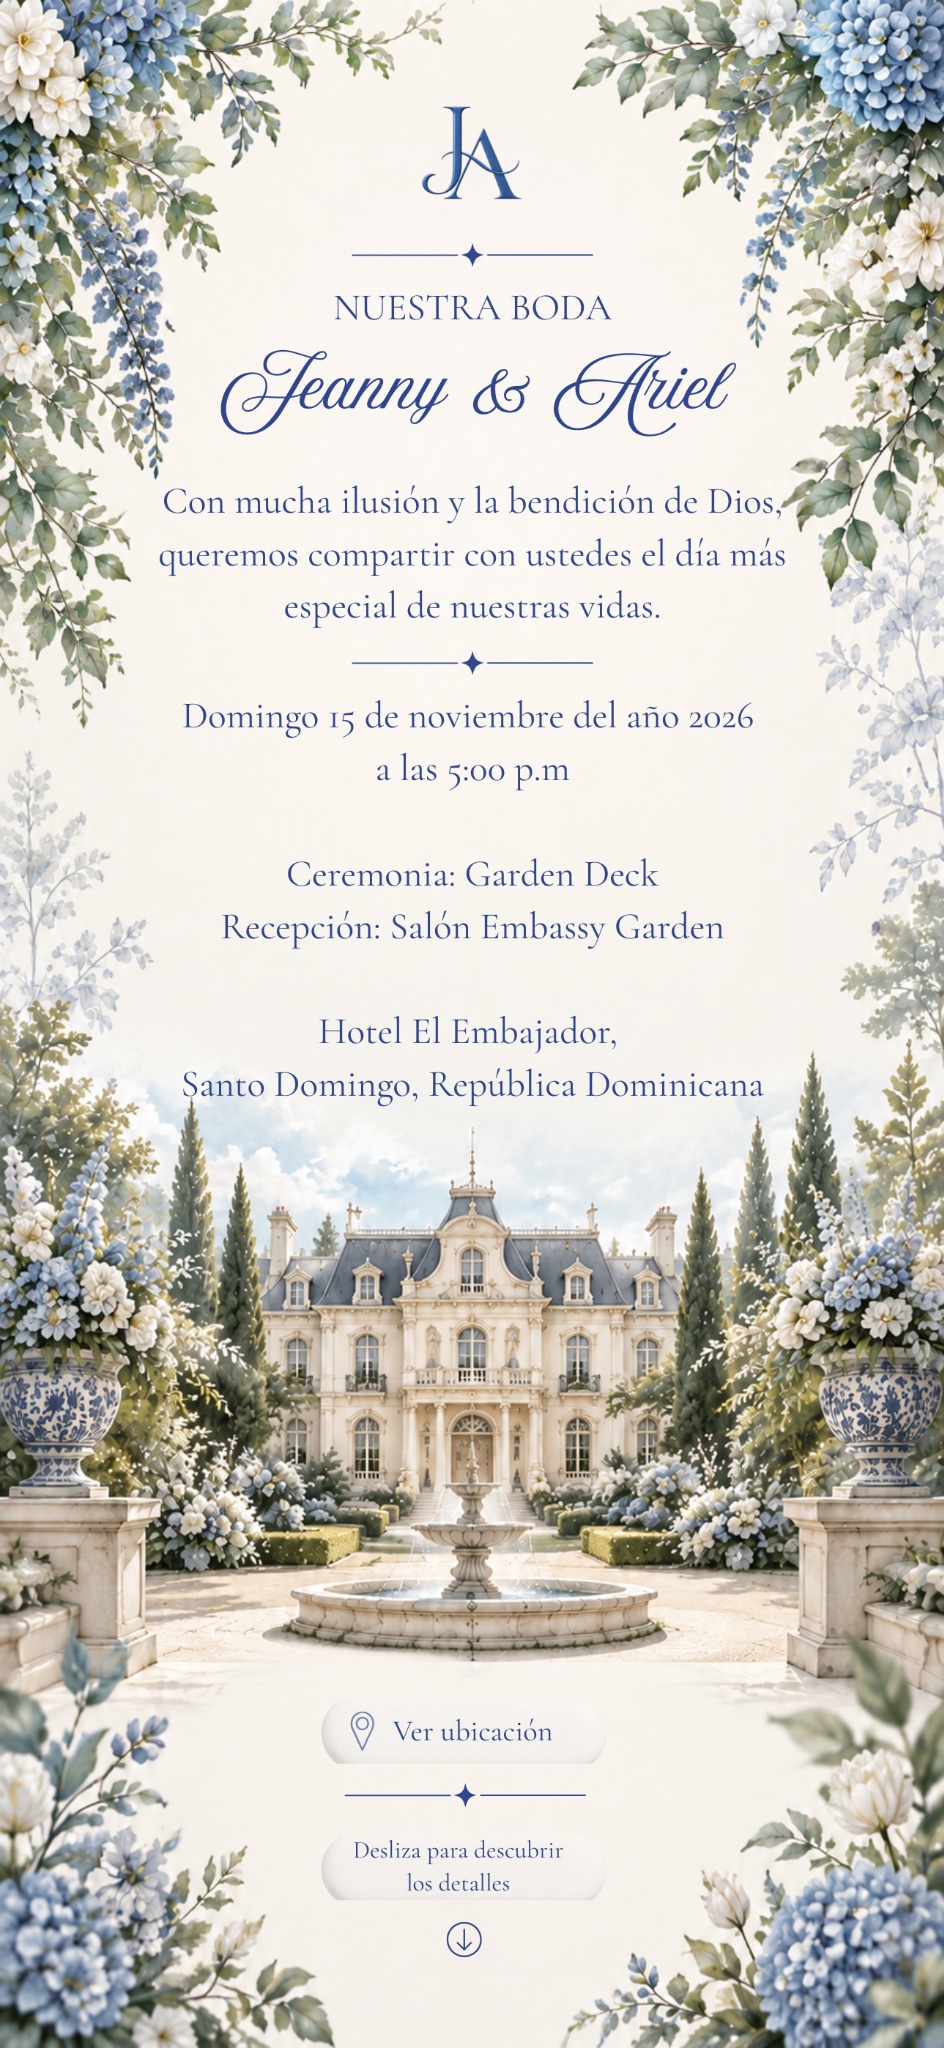
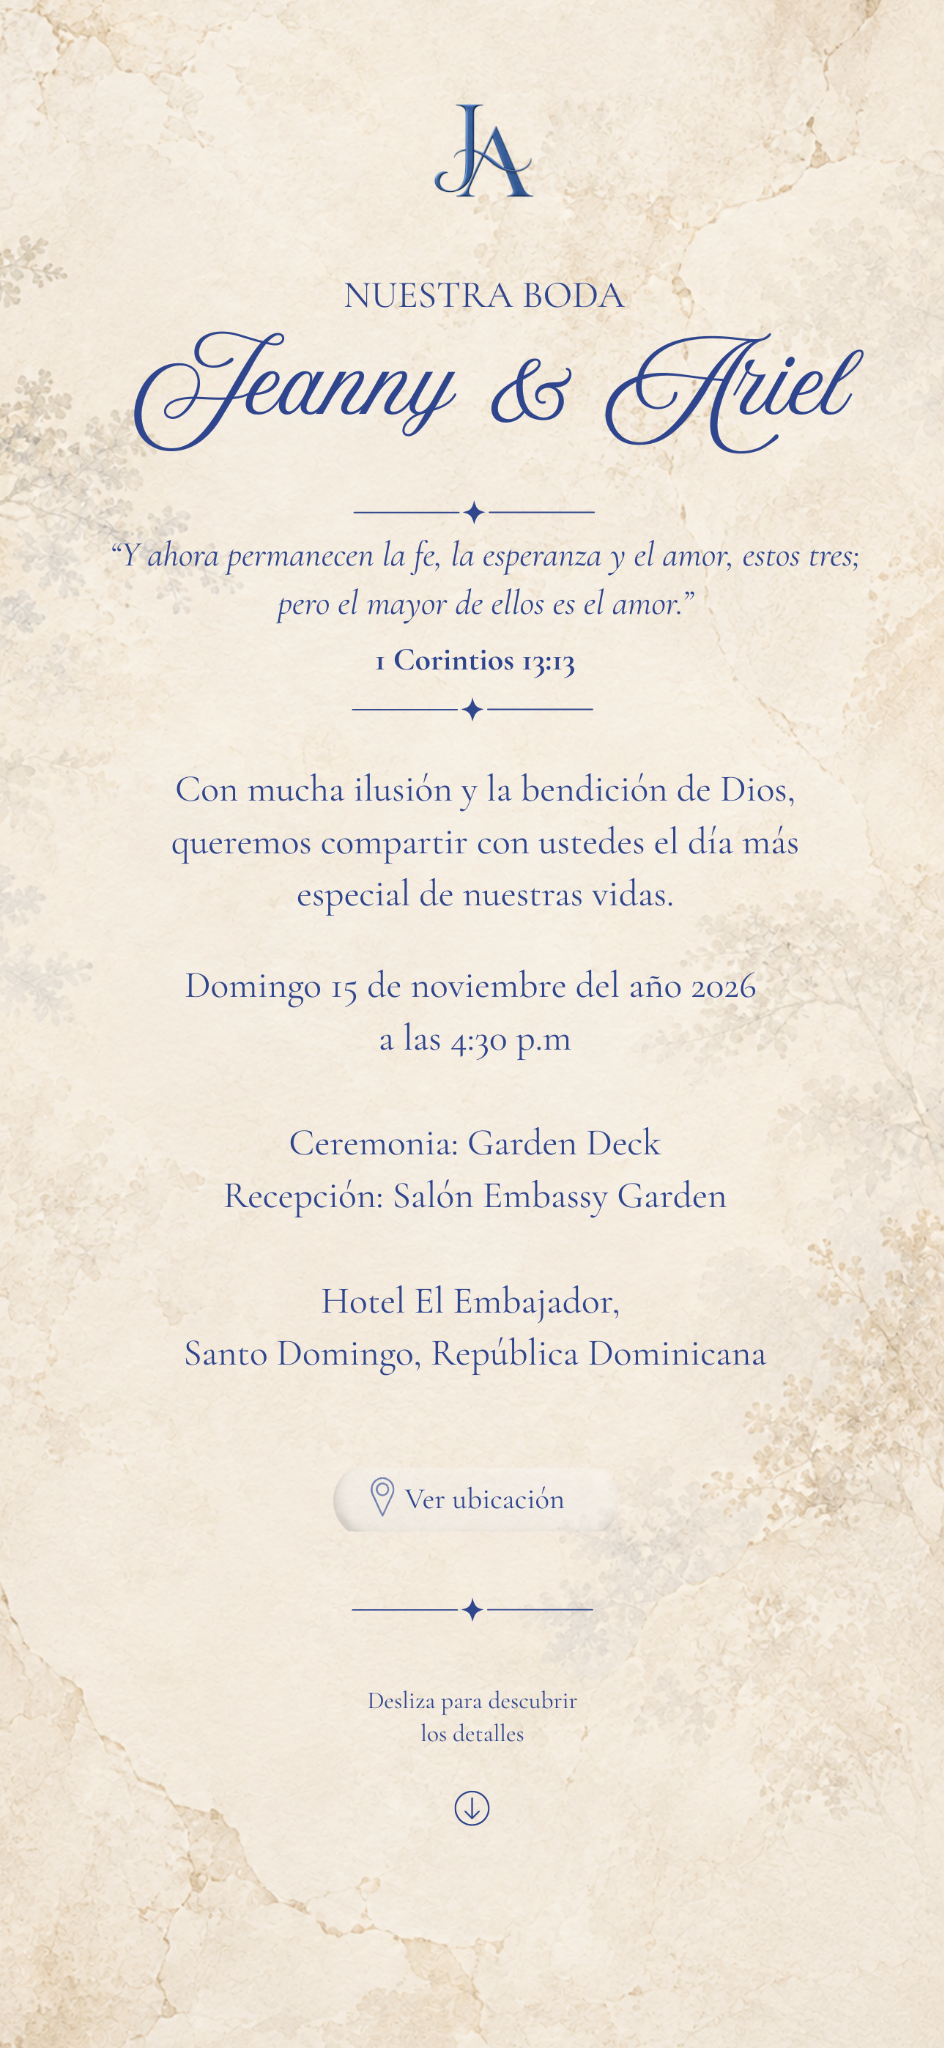
Add files via upload

diff --git a/index.html b/index.html
@@ -1,188 +1,20 @@
 <!doctype html>
-<html lang="es">
-<head>
-<meta charset="utf-8">
-<meta name="viewport" content="width=device-width,initial-scale=1,viewport-fit=cover">
-<title>Jeanny & Ariel · 15.11.2026</title>
+<html lang="es"><head><meta charset="utf-8"><meta name="viewport" content="width=device-width,initial-scale=1,viewport-fit=cover"><title>Jeanny & Ariel · 15.11.2026</title>
 <style>
-*{box-sizing:border-box}
-html,body{margin:0;background:#f7f1e7;color:#214a9a}
-body{overflow:hidden;font-family:Georgia,serif}
-body.opened{overflow-x:hidden;overflow-y:auto}
-.invite{width:min(100vw,944px);margin:0 auto;background:#f7f1e7}
-.page{position:relative;width:100%;overflow:hidden;aspect-ratio:944/2048;background:#f7f1e7}
-.base{position:absolute;inset:0;width:100%;height:100%;object-fit:fill;display:block;z-index:1}
-.pageReveal{opacity:1;transform:none;transition:none}
-
-/* Static page artwork: always visible on desktop and mobile. */
-.art{position:absolute;inset:0;z-index:5;width:100%;height:100%;pointer-events:none;opacity:1;transform:none;transition:none}
-.art img{position:absolute;inset:0;width:100%;height:100%;object-fit:fill;display:block}
-.d1,.d2,.d3,.d4,.d5,.d6,.d7{transition-delay:0s}
-
-/* Page 3 SAFETY MODE: no clipping, scaling, translating or page motion.
-   Each full-width slice is an actual crop from the approved Canva image and only fades in. */
-#p3.pageReveal{opacity:1!important;transform:none!important;transition:none!important}
-.p3fade{position:absolute;left:0;width:100%;z-index:5;pointer-events:none;opacity:1;transition:none}
-.p3fade img{display:block;width:100%;height:100%;object-fit:fill}
-.p3a{top:0;height:12.451171875%;transition-delay:.08s}
-.p3b{top:12.451171875%;height:12.451171875%;transition-delay:.38s}
-.p3c{top:24.90234375%;height:11.71875%;transition-delay:.72s}
-.p3d{top:36.62109375%;height:9.27734375%;transition-delay:1.06s}
-.p3e{top:45.8984375%;height:7.568359375%;transition-delay:1.40s}
-.p3f{top:53.466796875%;height:17.08984375%;transition-delay:1.74s}
-.p3g{top:70.556640625%;height:29.443359375%;transition-delay:2.08s}
-
-/* Page 2 is the actual scene revealed behind the doors.
-   No duplicated scene is used during opening, which avoids the visible flash/jump. */
-#p2{opacity:1!important;visibility:hidden;transform:scale(.975);transform-origin:center center;transition:transform 2.5s cubic-bezier(.22,.68,.22,1);will-change:transform;backface-visibility:hidden}
-#p2.opening{transform:scale(1)}
-.p2piece{position:absolute;inset:0;z-index:5;width:100%;height:100%;pointer-events:none;opacity:0;transition:opacity .68s ease;will-change:opacity}
-#p2.texts-on .p2piece{opacity:1}
-.p2piece img{position:absolute;inset:0;width:100%;height:100%;object-fit:fill;display:block}
-.p2-logo,.p2-names,.p2-date,.p2-scroll{transition-delay:0s}
-
-.p3-top{clip-path:inset(2% 0% 76% 0%)}
-.p3-verse{clip-path:inset(23% 7% 64% 7%)}
-.p3-copy{clip-path:inset(35% 8% 50% 8%)}
-.p3-date{clip-path:inset(48% 12% 39% 12%)}
-.p3-venue{clip-path:inset(58% 8% 24% 8%)}
-.p3-loc{clip-path:inset(75% 20% 10% 20%)}
-.p3-scroll{clip-path:inset(88% 22% 1% 22%)}
-
-.p4-head{clip-path:inset(3% 12% 77% 12%)}
-.p4-womenTxt{clip-path:inset(19% 7% 65% 7%)}
-.p4-womenIll{clip-path:inset(32% 14% 47% 14%)}
-.p4-womenBtn{clip-path:inset(48% 24% 43% 24%)}
-.p4-menTxt{clip-path:inset(56% 7% 30% 7%)}
-.p4-menIll{clip-path:inset(68% 13% 9% 13%)}
-.p4-menBtn{clip-path:inset(90% 22% 1% 22%)}
-
-.p5-head{clip-path:inset(9% 17% 66% 17%)}
-.p5-copy{clip-path:inset(27% 15% 52% 15%)}
-.p5-cu{clip-path:inset(39% 20% 45% 20%)}
-.p5-amz{clip-path:inset(49% 20% 35% 20%)}
-.p5-adults{clip-path:inset(59% 19% 25% 19%)}
-
-/* Portada: puertas con bisagra 3D sobre la MISMA página 2 real.
-   No hay una segunda imagen detrás, por lo que no existe salto visual al terminar la apertura. */
-.cover{position:fixed;z-index:100;inset:0;background:#f7f1e7;display:flex;align-items:center;justify-content:center;overflow:hidden;touch-action:manipulation;pointer-events:auto}
-.cover.open{pointer-events:none}
-.doors{position:relative;width:min(100vw,944px);aspect-ratio:944/2048;overflow:hidden;perspective:2400px;background:#f7f1e7}
-.door{position:absolute;top:0;width:50%;height:100%;overflow:hidden;z-index:3;transition:transform 2.5s cubic-bezier(.22,.68,.22,1),opacity .28s ease;will-change:transform,opacity;transform-style:preserve-3d;backface-visibility:hidden}
-.door img{display:block;width:100%;height:100%;object-fit:fill;transform:none!important;backface-visibility:hidden}
-.left{left:0;transform-origin:left center}.right{right:0;transform-origin:right center}
-.cover.open .left{transform:rotateY(-74deg)}
-.cover.open .right{transform:rotateY(74deg)}
-.cover.done .door{opacity:0}
-.tap{position:absolute;z-index:10;left:50%;top:61.5%;transform:translate(-50%,-50%);width:48%;height:10%;border:0;background:transparent;cursor:pointer;padding:0;touch-action:manipulation}
-
-.hot{position:absolute;z-index:30;display:block;border-radius:999px}
-.loc{left:31%;top:70.8%;width:38%;height:5.5%}.women{left:31%;top:51.2%;width:38%;height:4.6%}.men{left:29%;top:91.1%;width:42%;height:4.8%}.cuesta{left:31%;top:40.2%;width:38%;height:4.7%}.amazon{left:31%;top:50.4%;width:38%;height:4.7%}
-.music{position:fixed;right:14px;top:max(14px,env(safe-area-inset-top));z-index:90;width:42px;height:42px;border-radius:50%;border:1px solid rgba(31,70,145,.25);background:rgba(249,245,237,.88);backdrop-filter:blur(7px);font-size:18px;color:#214a9a;display:none;align-items:center;justify-content:center;box-shadow:0 3px 15px rgba(0,0,0,.08)}.music.show{display:flex}
-
-
-@media(max-width:600px){.music{right:10px;width:39px;height:39px}}
-</style>
-</head>
-<body>
-<audio id="song" preload="auto" playsinline loop><source src="assets/spring-max-richter.mp3?v=v19" type="audio/mpeg"></audio>
-<button id="music" class="music" aria-label="Silenciar música">♫</button>
-
-<div class="invite">
-  <section class="page pageReveal" id="p2">
-    <img class="base" src="assets/02-apertura-base.png?v=v19" alt="Jeanny y Ariel">
-    <div class="p2piece p2-logo"><img src="assets/02-logo-overlay.png?v=v19" alt=""></div>
-    <div class="p2piece p2-names"><img src="assets/02-nombres-overlay.png?v=v19" alt=""></div>
-    <div class="p2piece p2-date"><img src="assets/02-fecha-overlay.png?v=v19" alt=""></div>
-    <div class="p2piece p2-scroll"><img src="assets/02-scroll-overlay.png?v=v19" alt=""></div>
-  </section>
-
-  <section class="page pageReveal" id="p3">
-    <img class="base" src="assets/03-boda-base.png?v=v19" alt="Detalles de la boda">
-    <div class="p3fade p3a"><img src="assets/03-logo.png?v=v19" alt=""></div>
-    <div class="p3fade p3b"><img src="assets/03-nombres.png?v=v19" alt=""></div>
-    <div class="p3fade p3c"><img src="assets/03-versiculo.png?v=v19" alt=""></div>
-    <div class="p3fade p3d"><img src="assets/03-mensaje.png?v=v19" alt=""></div>
-    <div class="p3fade p3e"><img src="assets/03-fecha.png?v=v19" alt=""></div>
-    <div class="p3fade p3f"><img src="assets/03-lugar.png?v=v19" alt=""></div>
-    <div class="p3fade p3g"><img src="assets/03-boton-scroll.png?v=v19" alt=""></div>
-    <a class="hot loc" href="https://maps.app.goo.gl/bXNYkKEkYui6yCsP8?g_st=ic" target="_blank" rel="noopener" aria-label="Ver ubicación"></a>
-  </section>
-
-  <section class="page pageReveal" id="p4">
-    <img class="base" src="assets/04-vestimenta-base.png?v=v19" alt="Código de vestimenta">
-    <div class="art p4-head d1"><img src="assets/04-vestimenta-final.png?v=v19" alt=""></div>
-    <div class="art p4-womenTxt d2"><img src="assets/04-vestimenta-final.png?v=v19" alt=""></div>
-    <div class="art p4-womenIll d3"><img src="assets/04-vestimenta-final.png?v=v19" alt=""></div>
-    <div class="art p4-womenBtn d4"><img src="assets/04-vestimenta-final.png?v=v19" alt=""></div>
-    <div class="art p4-menTxt d4"><img src="assets/04-vestimenta-final.png?v=v19" alt=""></div>
-    <div class="art p4-menIll d5"><img src="assets/04-vestimenta-final.png?v=v19" alt=""></div>
-    <div class="art p4-menBtn d6"><img src="assets/04-vestimenta-final.png?v=v19" alt=""></div>
-    <a class="hot women" href="https://www.pinterest.com/turtle_uv94/code-dress-girls/?invite_code=2acb87ba884a4c9c999840964b3e6c9f&sender=549931941906887975" target="_blank" rel="noopener" aria-label="Ver referencias para ellas"></a>
-    <a class="hot men" href="https://www.pinterest.com/turtle_uv94/code-dress-boys/?invite_code=ddfad047927e46b4bc0679652ee8c017&sender=549931941906887975" target="_blank" rel="noopener" aria-label="Ver referencias para ellos"></a>
-  </section>
-
-  <section class="page pageReveal" id="p5">
-    <img class="base" src="assets/05-regalos-final-aprobada.png?v=v19" alt="Listas de regalos">
-    <a class="hot cuesta" href="https://listaderegalos.casacuesta.com/Event/Jeanny-Ariel?utm_source=share" target="_blank" rel="noopener" aria-label="Ver lista Casa Cuesta"></a>
-    <a class="hot amazon" href="https://www.amazon.com/wedding/guest-view/SKL6AKIKFPXG" target="_blank" rel="noopener" aria-label="Ver lista Amazon"></a>
-  </section>
+*{box-sizing:border-box}html,body{margin:0;background:#f7f1e7}body{overflow:hidden}body.opened{overflow-x:hidden;overflow-y:auto}.invite{width:min(100vw,944px);margin:auto}.page{position:relative;width:100%;aspect-ratio:944/2048}.page>img{display:block;width:100%;height:100%;object-fit:fill}.hot{position:absolute;z-index:5;display:block;border-radius:999px}.loc{left:31%;top:70.8%;width:38%;height:5.5%}.women{left:31%;top:51.2%;width:38%;height:4.6%}.men{left:29%;top:91.1%;width:42%;height:4.8%}.cuesta{left:31%;top:40.2%;width:38%;height:4.7%}.amazon{left:31%;top:50.4%;width:38%;height:4.7%}
+.cover{position:fixed;z-index:100;inset:0;display:flex;align-items:flex-start;justify-content:center;background:#f7f1e7;overflow:hidden;pointer-events:auto}.doors{position:relative;width:min(100vw,944px);aspect-ratio:944/2048;overflow:hidden;perspective:2600px;background:#f7f1e7}.door{position:absolute;top:0;width:50%;height:100%;z-index:3;overflow:hidden;transition:transform 2.5s cubic-bezier(.22,.61,.36,1),opacity .35s ease;transform-style:preserve-3d;backface-visibility:hidden;will-change:transform}.door img{display:block;width:100%;height:100%;object-fit:fill;backface-visibility:hidden}.left{left:0;transform-origin:left center}.right{right:0;transform-origin:right center}.cover.open .left{transform:rotateY(-82deg)}.cover.open .right{transform:rotateY(82deg)}.cover.done{visibility:hidden;pointer-events:none}.tap{position:absolute;z-index:10;left:50%;top:61.5%;transform:translate(-50%,-50%);width:48%;height:10%;border:0;background:transparent;cursor:pointer}.scene{transform:scale(.985);transform-origin:center;transition:transform 2.5s cubic-bezier(.22,.61,.36,1)}body.opening .scene{transform:scale(1)}
+.music{position:fixed;right:12px;top:max(12px,env(safe-area-inset-top));z-index:90;width:40px;height:40px;border-radius:50%;border:1px solid rgba(31,70,145,.25);background:rgba(249,245,237,.9);color:#214a9a;display:none;align-items:center;justify-content:center;font-size:18px}.music.show{display:flex}
+</style></head><body>
+<audio id="song" preload="auto" playsinline loop><source src="assets/spring-max-richter.mp3?v=v21" type="audio/mpeg"></audio><button id="music" class="music" aria-label="Silenciar música">♫</button>
+<div class="invite scene">
+<section class="page"><img src="assets/02-invitacion.png?v=v21" alt="Jeanny y Ariel"></section>
+<section class="page"><img src="assets/03-boda.png?v=v21" alt="Detalles de la boda"><a class="hot loc" href="https://maps.app.goo.gl/bXNYkKEkYui6yCsP8?g_st=ic" target="_blank" rel="noopener" aria-label="Ver ubicación"></a></section>
+<section class="page"><img src="assets/04-vestimenta.png?v=v21" alt="Código de vestimenta"><a class="hot women" href="https://www.pinterest.com/turtle_uv94/code-dress-girls/?invite_code=2acb87ba884a4c9c999840964b3e6c9f&sender=549931941906887975" target="_blank" rel="noopener" aria-label="Ver referencias para ellas"></a><a class="hot men" href="https://www.pinterest.com/turtle_uv94/code-dress-boys/?invite_code=ddfad047927e46b4bc0679652ee8c017&sender=549931941906887975" target="_blank" rel="noopener" aria-label="Ver referencias para ellos"></a></section>
+<section class="page"><img src="assets/05-regalos.png?v=v21" alt="Listas de regalos"><a class="hot cuesta" href="https://listaderegalos.casacuesta.com/Event/Jeanny-Ariel?utm_source=share" target="_blank" rel="noopener" aria-label="Ver lista Casa Cuesta"></a><a class="hot amazon" href="https://www.amazon.com/wedding/guest-view/SKL6AKIKFPXG" target="_blank" rel="noopener" aria-label="Ver lista Amazon"></a></section>
 </div>
-
-<div class="cover" id="cover">
-  <div class="doors">
-    <div class="door left"><img src="assets/01-puerta-izquierda.png?v=v19" alt=""></div>
-    <div class="door right"><img src="assets/01-puerta-derecha.png?v=v19" alt=""></div>
-    <button class="tap" id="open" aria-label="Toca para abrir"></button>
-  </div>
-</div>
-
+<div class="cover" id="cover"><div class="doors"><div class="door left"><img src="assets/01-puerta-izquierda.png?v=v21" alt=""></div><div class="door right"><img src="assets/01-puerta-derecha.png?v=v21" alt=""></div><button class="tap" id="open" aria-label="Toca para abrir"></button></div></div>
 <script>
-const audio=document.getElementById('song');
-const cover=document.getElementById('cover');
-const openBtn=document.getElementById('open');
-const music=document.getElementById('music');
-const p2=document.getElementById('p2');
-audio.volume=.38;
-let opened=false;
-
-function openInvite(){
-  if(opened)return;
-  opened=true;
-  // Must happen synchronously inside the user's tap for iOS/Android audio permission.
-  audio.play().catch(()=>{});
-  music.classList.add('show');
-
-  // Keep the second page completely hidden before the tap, so nothing can peek
-  // around the closed doors. Reveal it only when the opening begins.
-  p2.style.visibility='visible';
-
-  requestAnimationFrame(()=>{
-    cover.style.background='transparent';
-    p2.classList.add('opening');
-    cover.classList.add('open');
-  });
-
-  // Keep the transparent cover in place; never swap/hide the scene.
-  // Once the slow hinge motion is finished, softly remove only the door panels.
-  // At 2.5 s the doors are fully open. Keep the scene itself untouched;
-  // only fade the door panels and unlock scrolling.
-  setTimeout(()=>{
-    cover.classList.add('done');
-    document.body.classList.add('opened');
-  },2500);
-
-  // Only after the opening is fully stable does the text appear.
-  setTimeout(()=>{p2.classList.add('texts-on')},2700);
-}
-openBtn.addEventListener('pointerup',openInvite,{passive:true});
-openBtn.addEventListener('click',openInvite);
-
-music.addEventListener('click',()=>{
-  if(audio.paused){audio.play().catch(()=>{});music.textContent='♫'}
-  else{audio.pause();music.textContent='♪̸'}
-});
-
-</script>
-</body>
-</html>
+const audio=document.getElementById('song'),cover=document.getElementById('cover'),btn=document.getElementById('open'),music=document.getElementById('music');let opened=false;audio.volume=.38;
+function openInvite(){if(opened)return;opened=true;audio.play().catch(()=>{});music.classList.add('show');document.body.classList.add('opening');cover.classList.add('open');setTimeout(()=>{cover.classList.add('done');document.body.classList.add('opened')},2550)}
+btn.addEventListener('pointerup',openInvite,{passive:true});btn.addEventListener('click',openInvite);music.addEventListener('click',()=>{if(audio.paused){audio.play().catch(()=>{});music.textContent='♫'}else{audio.pause();music.textContent='♪̸'}});
+</script></body></html>
